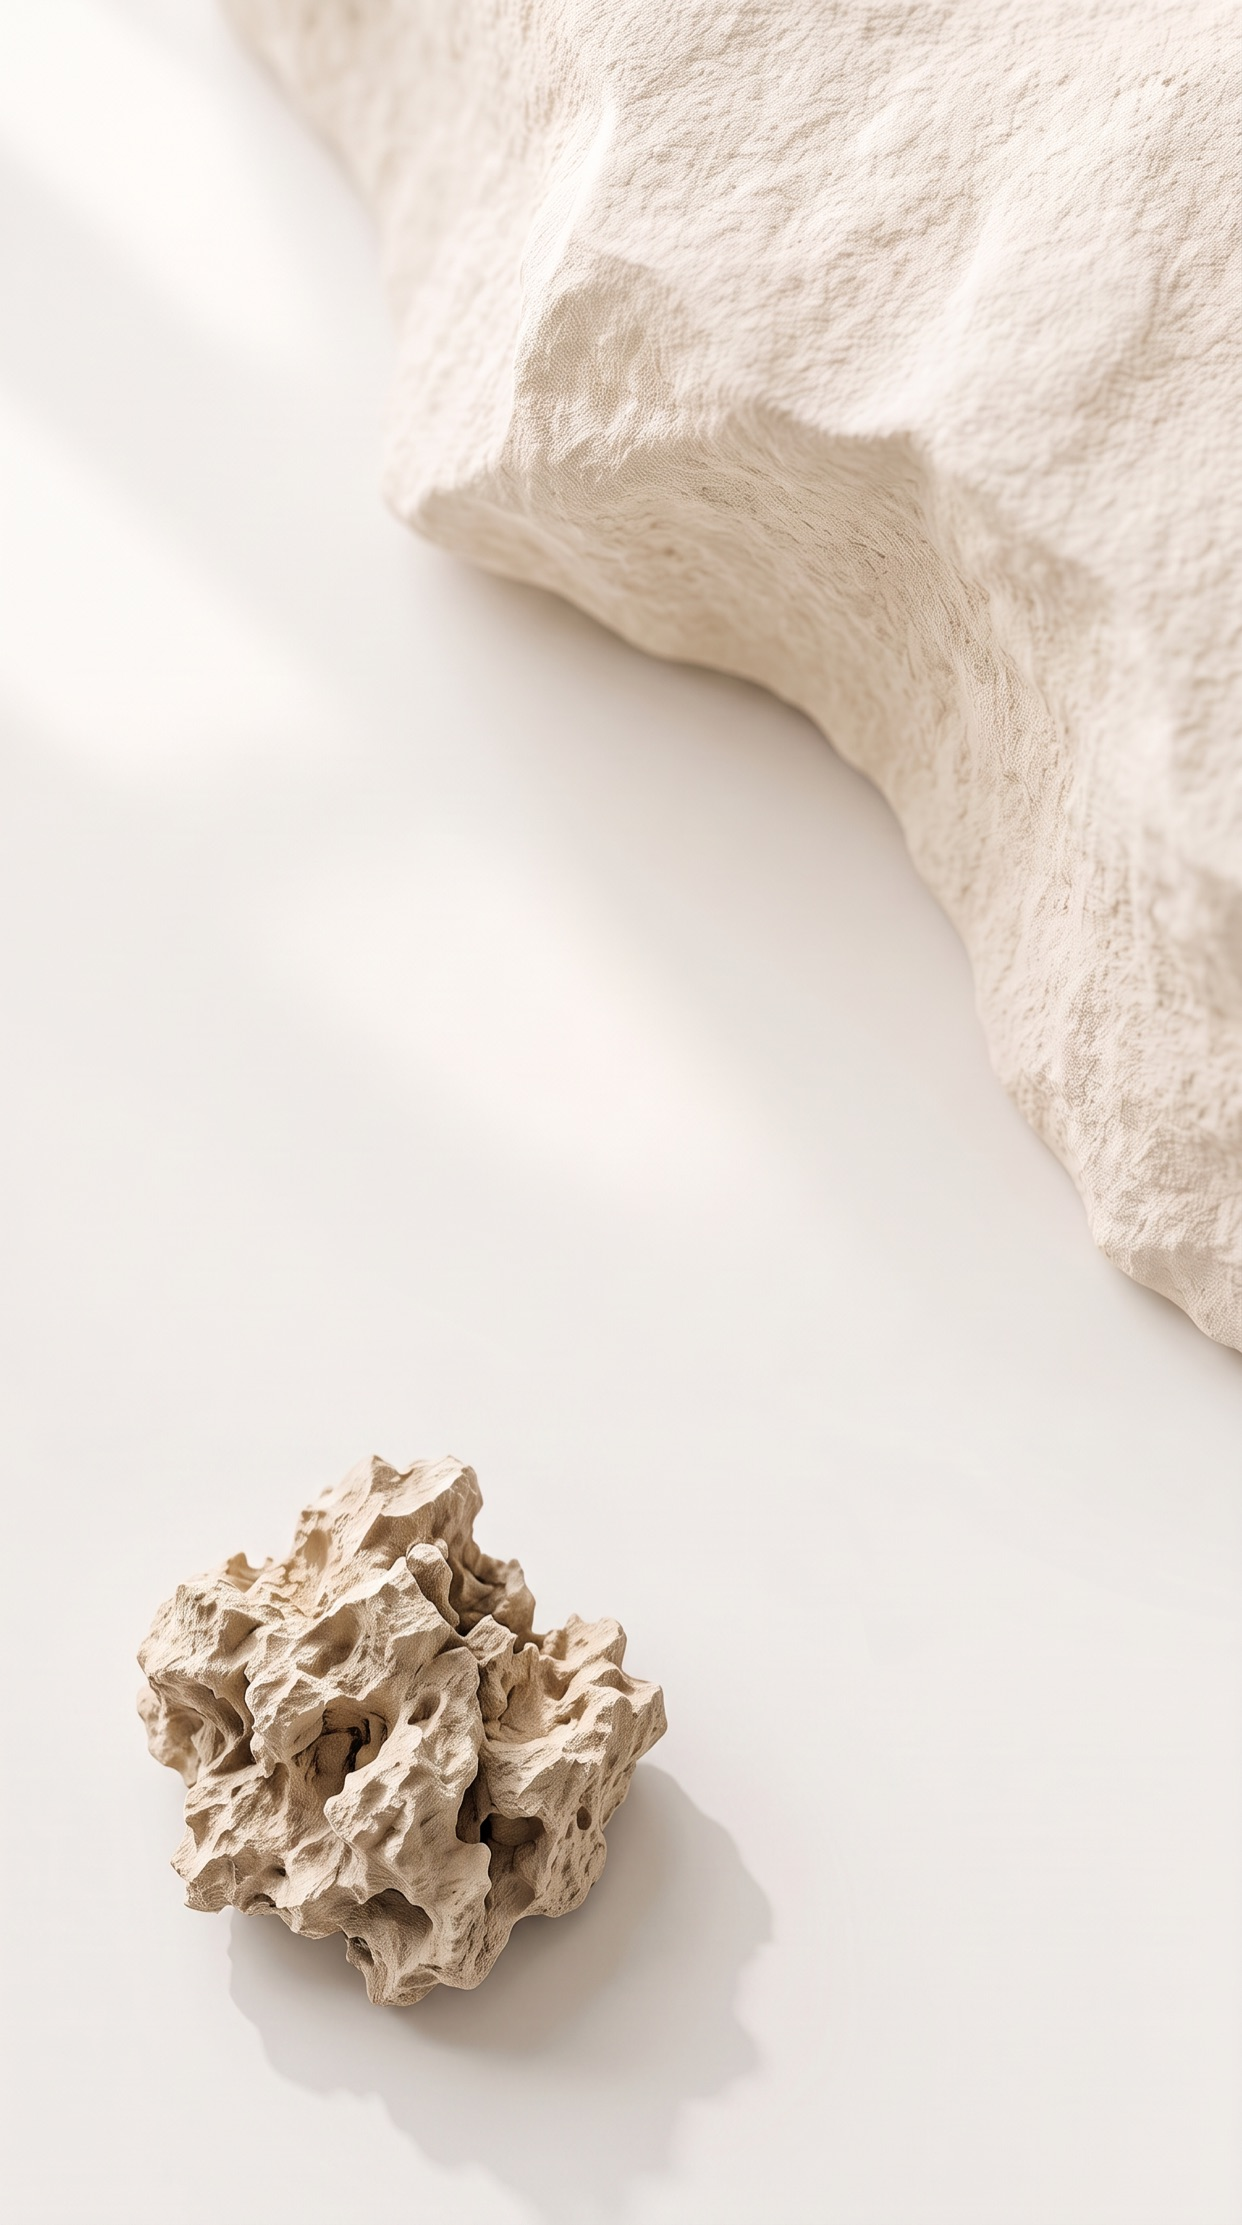
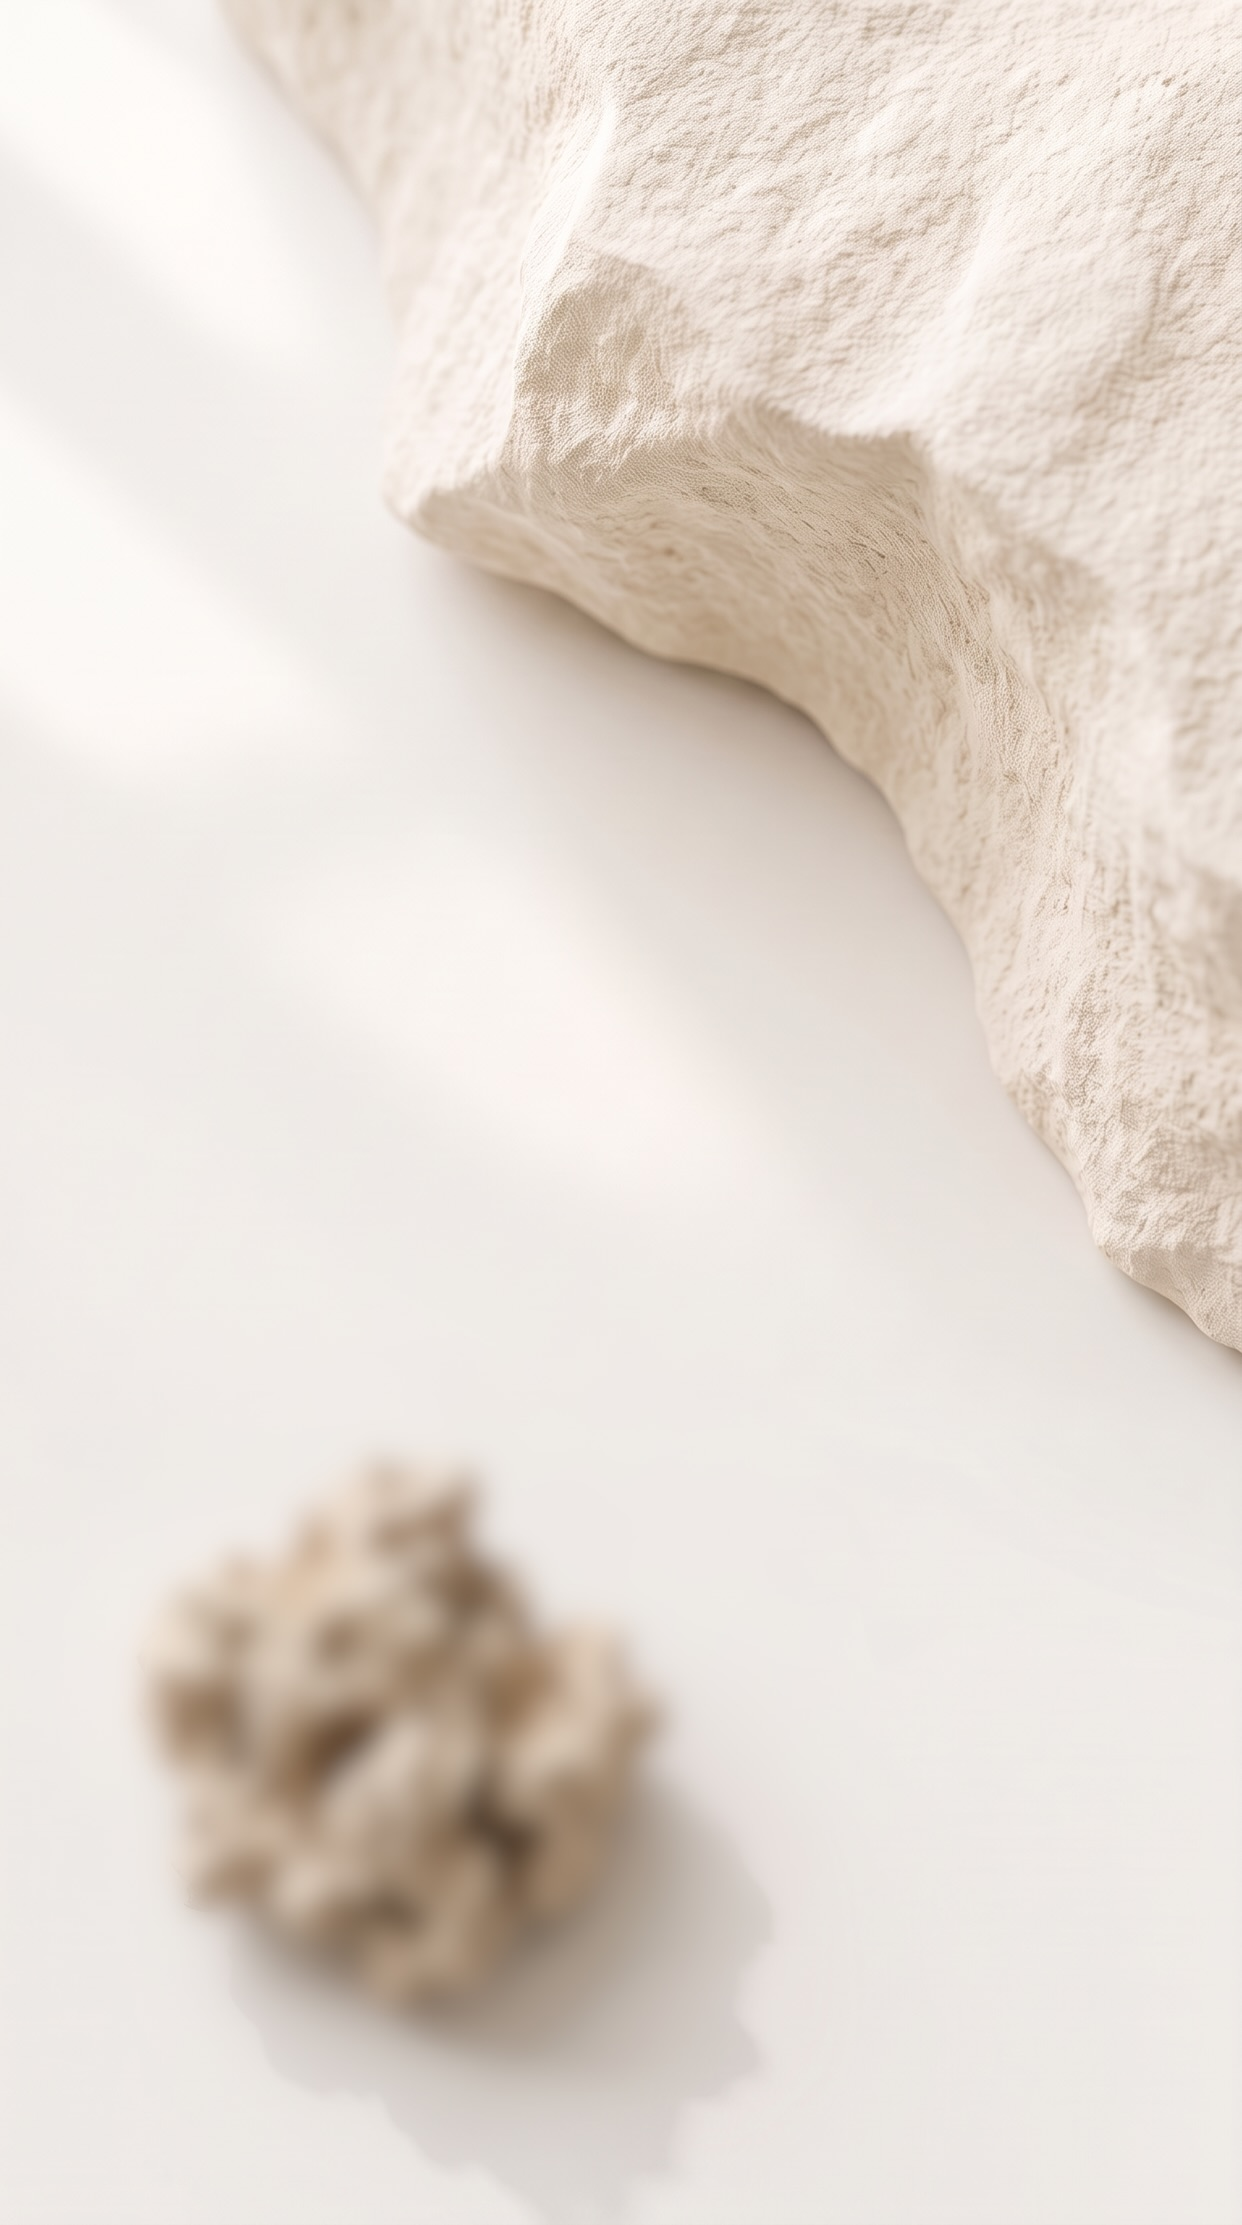
Soften the small rock on the light stone background
The rock at the lower left is blurred in the image itself with a
feathered radial mask, so it reads as out-of-focus depth rather than
sharp texture behind content. The Core Image script is kept in scripts/
for the dark plate:

  swift scripts/blur-region.swift <in> <out.jpg> 440 1720 290 520 16

Changed region(s): [[0.0918, 0.6512, 0.5507, 0.8993]]

diff --git a/scripts/blur-region.swift b/scripts/blur-region.swift
@@ -1,0 +1,27 @@
+// Blurs one circular region of an image, feathering back to sharp.
+// usage: blur-region <in> <out.jpg> <cx> <cy-from-top> <sharpRadius> <fadeRadius> <sigma>
+import CoreImage
+import Foundation
+
+let a = CommandLine.arguments
+let input = URL(fileURLWithPath: a[1]), output = URL(fileURLWithPath: a[2])
+let cx = Double(a[3])!, cyTop = Double(a[4])!, r0 = Double(a[5])!, r1 = Double(a[6])!, sigma = Double(a[7])!
+
+guard let image = CIImage(contentsOf: input) else { fatalError("could not load \(input.path)") }
+let extent = image.extent
+// Core Image's origin is bottom-left.
+let centre = CIVector(x: cx, y: extent.height - cyTop)
+
+let blurred = image.clampedToExtent().applyingGaussianBlur(sigma: sigma).cropped(to: extent)
+let mask = CIFilter(name: "CIRadialGradient", parameters: [
+  "inputCenter": centre, "inputRadius0": r0, "inputRadius1": r1,
+  "inputColor0": CIColor.white, "inputColor1": CIColor.black,
+])!.outputImage!.cropped(to: extent)
+
+let result = blurred.applyingFilter("CIBlendWithMask", parameters: [
+  kCIInputBackgroundImageKey: image, kCIInputMaskImageKey: mask,
+])
+
+let options = [CIImageRepresentationOption(rawValue: kCGImageDestinationLossyCompressionQuality as String): 0.8]
+try CIContext().writeJPEGRepresentation(of: result, to: output, colorSpace: CGColorSpace(name: CGColorSpace.sRGB)!, options: options)
+print("wrote \(output.path)")
